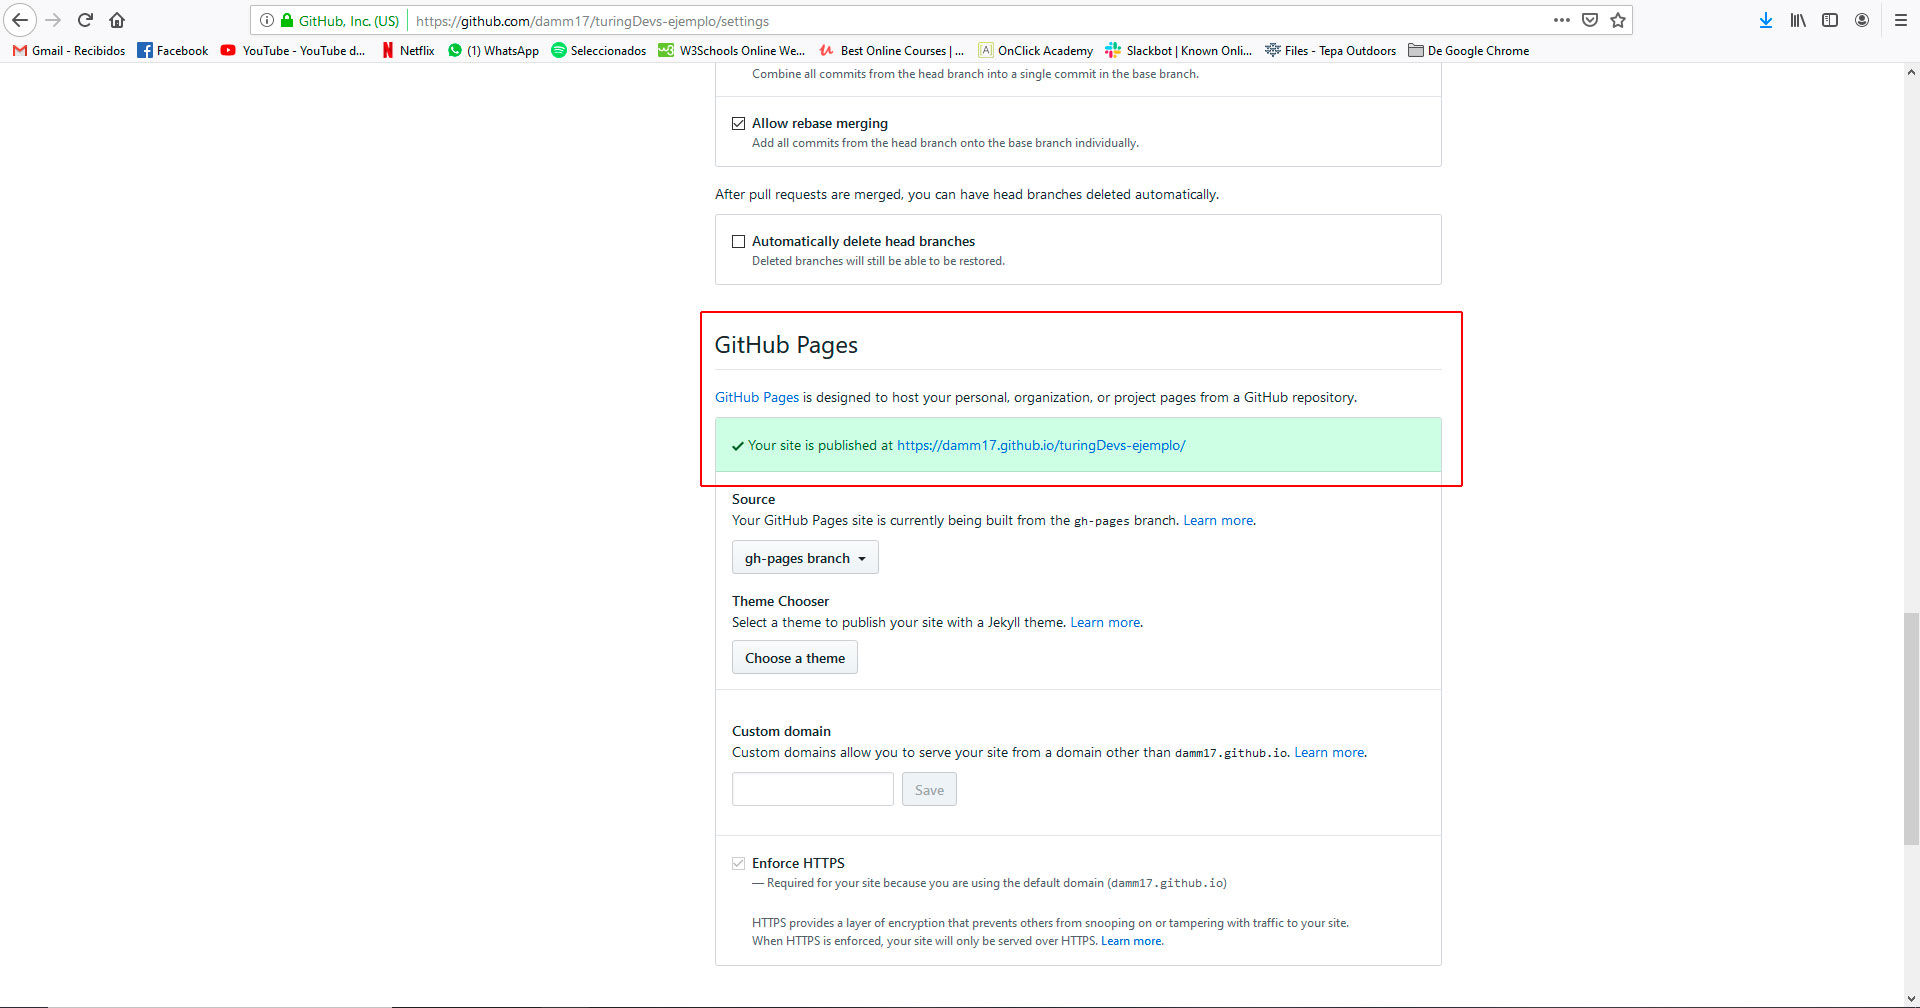
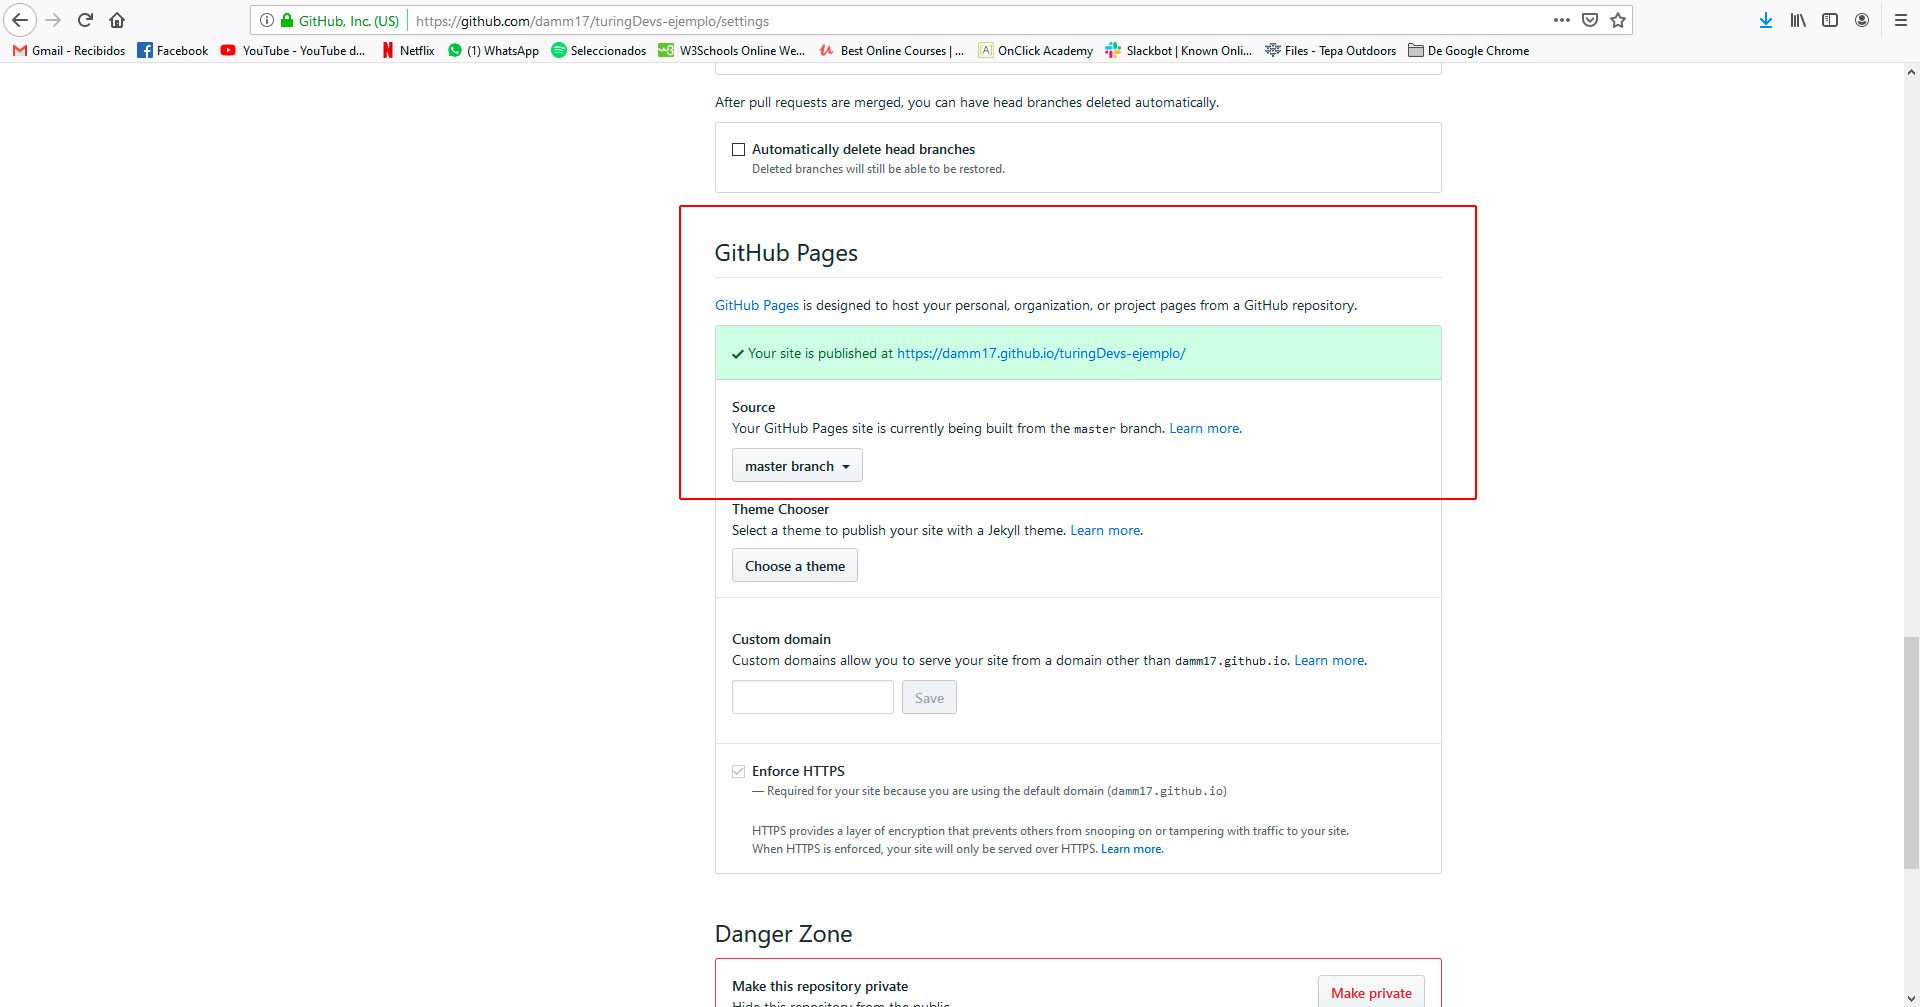
Update para crear la página web de nuestro repo

diff --git a/index.html b/index.html
@@ -47,6 +47,7 @@
                     <li><strong>3. GITBASH:</strong> Metodología de trabajo con Git. Comandos más comunes y subida de archivos al repositorio.</li>
                     <li><strong>4. ONLINE:</strong> Crear la página web de nuestro proyecto.</li>
                 </ol>
+                <small>Última Actualización: 04/08/2019</small>
             </div>
             <div class="tab-pane fade" id="pills-git" role="tabpanel" aria-labelledby="pills-git-tab">
                 <h2>1. Instalar GIT (<a href="https://git-scm.com/downloads" target="_blank">https://git-scm.com/downloads</a>)</h2>
@@ -115,12 +116,16 @@
             <div class="tab-pane fade" id="pills-online" role="tabpanel" aria-labelledby="pills-online-tab">
                 <h2>1. Ver nuestro proyecto online y compartir</h2>
                 <p>Ahora que ya subimos todo (y asumiendo que trabajamos con un .html) vamos a volver a la página de GitHub y vamos a entrar a nuestro repositorio como cuando copiamos la URL para clonarlo.<br>
-                Esta vez, vamos a apretar en el botón que dice 'Branch: master' y en recuadro vamos a escribir <code>gh-pages</code>. Luego elegimos la opción que nos va a aparecer que dice: 'Create branch: gh-pages'</p>
+                Esta vez, vamos a entrar a la configuración del mismo haciendo click en 'Settings'.</p>
                 <a href="img/online.jpg" data-lightbox="online"><img src="img/online.jpg" alt="" class="img-thumbnail"></a>
-                <p>Una vez que crearon el branch, van a 'Settings' (si no lo ubican está debajo del ojito que dice 'Unwatch') y luego simplemente bajan un poco hasta el bloque que dice 'GitHub Pages'. Allí van a ver un link que los dirige a la versión online y navegable de su sitio.</p>
+                <p>Una vez dentro de la página de configuración simplemente bajan un poco hasta el bloque que dice 'GitHub Pages'. Allí van a ver que la primera opción dice 'Source' y por defecto viene en <strong>None</strong>. Lo único que tienen que hacer es cambiar eso y elegir a la rama <strong>'Master'</strong> como su fuente para la página de Github.</p>
                 <a href="img/online-2.jpg" data-lightbox="online-2"><img src="img/online-2.jpg" alt="" class="img-thumbnail"></a>
-                <p>Y eso es todo por el momento. Pueden compartir ese link directamente para mostrar el resultado de su trabajo, o bien el link del repositorio para que algún otro desarrollador lo descargue o lo que sea.</p>
-                <div class="alert bg-warning"><p><strong>Última aclaración:</strong> Con este método, si luego hacen cambios y vuelven a hacer un push a 'master' como ya vimos, la página no se les va a actualizar. O sea, me refiero a la versión online. En unos días les actualizo la guía para explicarles cómo funcionan bien las ramas y que puedan hacer cambios y luego sí verlos reflejados online.</p></div>
+                <p>Y listo, ya con esto vamos a tener nuestra página web online para que cualquiera entre y la navegue. Vale aclarar que la primera vez que hagan este cambio, va a demorar unos minutos en procesar y generarles la URL. Un truco que suele acelerar este proceso, es editar cualquier archivo del repositorio y guardar los cambios (lo pueden hacer directamente desde la página de Github, o bien hacer todo el proceso que ya vimos de <code>add, commit, pull, push</code>)</p>
+                <h2>2. Dejar a mano nuestra URL (OPCIONAL)</h2>
+                <p>Una última cosa que pueden hacer para ahorrarse tiempo ustedes y a los visitantes de su repositorio, es dejar esa URL que generamos en el paso anterior visible en la página principal. Para eso, simplemente vamos a apretar donde dice 'Edit' (recuerden estar en el Home del repositorio)</p>
+                <a href="img/online-3.jpg" data-lightbox="online-3"><img src="img/online-3.jpg" alt="" class="img-thumbnail"></a>
+                <p>Y luego pegamos la URL de nuestra web (que la copian entrando a 'Settings', como en el paso anterior, en caso de que no la tengan a mano) y guardamos los cambios.</p>
+                <a href="img/online-4.jpg" data-lightbox="online-4"><img src="img/online-4.jpg" alt="" class="img-thumbnail"></a>
             </div>
         </div>
     </main>

diff --git a/css/styles.css b/css/styles.css
@@ -49,6 +49,12 @@ code {
     color: #fff;
 }
 
+small {
+    font-size:1.2em;
+    margin-top:5rem;
+    display: block;
+}
+
 /* Layout */
 main {
     max-width: 90vw;
